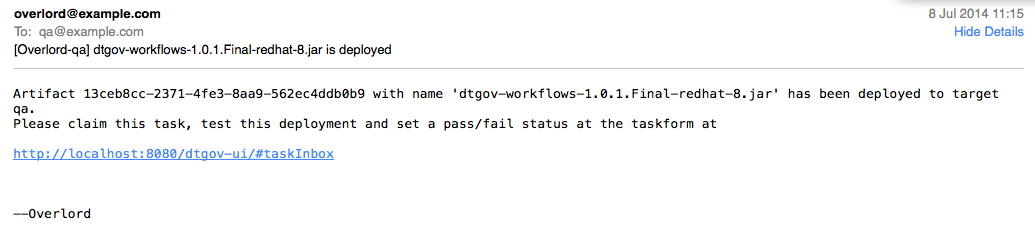
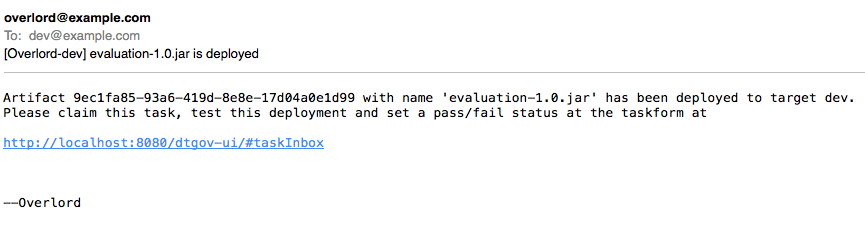
Captured new images, adjusted config for proper password, documented in readme.

diff --git a/README.md b/README.md
@@ -24,7 +24,7 @@ Follow the instructions on the screen to start JBoss BPM Suite server and JBoss 
    which includes an s-ramp wagon and s-ramp repsitory locations for transporting any
    artifacts we build with 'mvn deploy'.
 
-        $ mvn deploy -f projects/customer/pom.xml
+        $ mvn deploy -f projects/customer/evaluation/pom.xml
 
    The cusotmer project now has been deployed in s-ramp repository where you can view
    the artifacts and see that the governance process in the s-ramp was automatically
@@ -35,6 +35,14 @@ Follow the instructions on the screen to start JBoss BPM Suite server and JBoss 
 
    The example of promoting through dev to qa to stage to prod is an example of using
    a local filesystem for this demo.
+
+       $ ls /tmp/dev/
+
+         evaluation-1.0.jar
+       
+       $ ls /tmp/qa/
+
+         evaluation-1.0.jar
    ```
 
 
